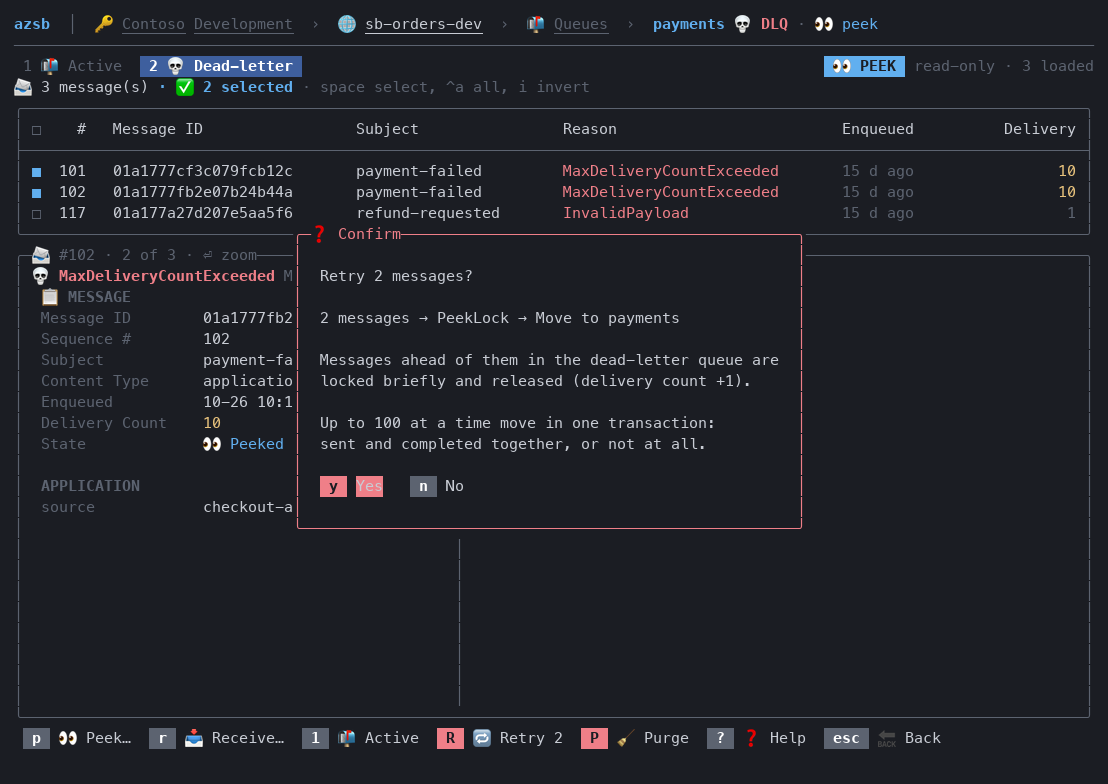
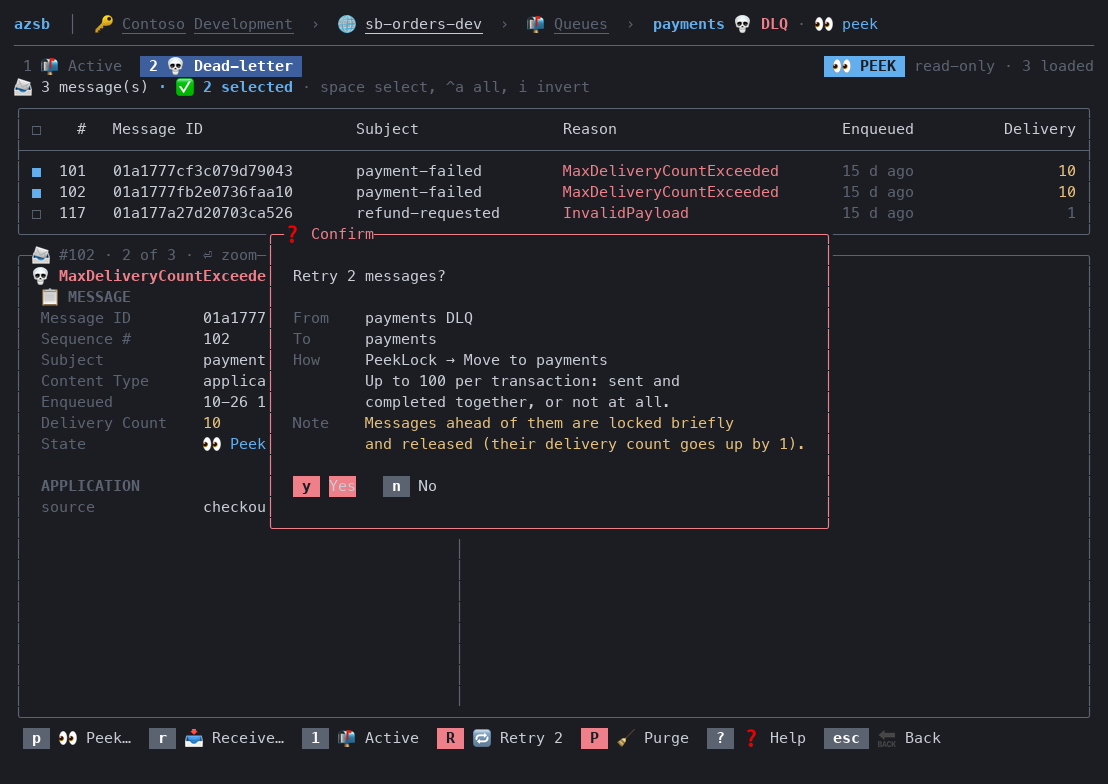
Show From / To / How / Note in the retry confirmation (#178)
![Retry
confirm](https://github.com/zidad/azure-servicebus-console/blob/redesign/retry-confirm-grid/docs/screenshots/retry-confirm.png?raw=true)

- DialogFields: label grid for dialogs, notes in warning color
- AsyncCommand ConfirmFields passes the grid to ConfirmModal
- RetryText.Fields: dead-letter source, send target, steps with
transaction or at-least-once, notes
- Retry and requeue confirms in browser and detail page use it
- Part of #133

diff --git a/src/ServiceBusConsole/Messaging/RetryText.cs b/src/ServiceBusConsole/Messaging/RetryText.cs
@@ -8,31 +8,41 @@ public static class RetryText
 
     public static string Label(bool isDlq) => isDlq ? MessagingStrings.RetryText_Retry : MessagingStrings.RetryText_Requeue;
 
+    public static string Question(MessageSource source, string what) =>
+        source.IsDlq ? MessagingStrings.FormatRetryText_RetryQuestion(what) : MessagingStrings.FormatRetryText_RequeueQuestion(what);
+
     /// <summary>
-    /// Short lines, so the confirm dialog stays narrow: question, the steps as a flow, notes. <paramref name="transactional"/>:
-    /// the namespace moves held messages in transactions (received-and-deleted ones have no originals left to complete).
+    /// From / To / How / Note, in short lines so the confirm dialog stays narrow; How starts with the progress steps.
+    /// <paramref name="transactional"/>: the namespace moves held messages in transactions (received-and-deleted ones
+    /// have no originals left to complete).
     /// </summary>
-    public static string Confirm(BrowseMode mode, MessageSource source, string what, bool transactional)
+    public static IReadOnlyList<DialogField> Fields(BrowseMode mode, MessageSource source, bool transactional)
     {
         var requeue = MessagingStrings.FormatRetryText_RequeueTo(source.SendTarget);
         string[] retry = transactional ? [MessagingStrings.FormatRetryText_MoveTo(source.SendTarget)] : [requeue, MessagingStrings.RetryText_MarkComplete];
         string[] steps = mode switch
         {
-            BrowseMode.Peek => [what, Strings.PeekLock, .. retry],
-            BrowseMode.Locked => [what, .. retry],
-            _ => [what, requeue],
+            BrowseMode.Peek => [Strings.PeekLock, .. retry],
+            BrowseMode.Locked => retry,
+            _ => [requeue],
         };
+        string?[] how =
+        [
+            string.Join(" → ", steps),
+            mode == BrowseMode.Received ? null : transactional ? MessagingStrings.RetryText_TransactionNote : MessagingStrings.RetryText_AtLeastOnceNote,
+        ];
         string?[] notes =
         [
             mode == BrowseMode.Peek ? MessagingStrings.RetryText_PeekNote : null,
             mode == BrowseMode.Received ? MessagingStrings.RetryText_ReceivedNote : null,
-            transactional && mode != BrowseMode.Received ? MessagingStrings.RetryText_TransactionNote : null,
             source is MessageSource.Subscription ? MessagingStrings.RetryText_SubscriptionNote : null,
         ];
-        var question = source.IsDlq ? MessagingStrings.FormatRetryText_RetryQuestion(what) : MessagingStrings.FormatRetryText_RequeueQuestion(what);
-        return string.Join('\n', [
-            question, "", string.Join(" → ", steps),
-            .. notes.OfType<string>().SelectMany(note => new[] { "", note }),
-        ]);
+        return
+        [
+            new(MessagingStrings.RetryText_From, source.DisplayName),
+            new(MessagingStrings.RetryText_To, source.SendTarget),
+            new(MessagingStrings.RetryText_How, string.Join('\n', how.OfType<string>())),
+            .. notes.OfType<string>().Select((note, i) => new DialogField(i == 0 ? MessagingStrings.RetryText_Note : "", note, Warning: true)),
+        ];
     }
 }

diff --git a/tests/ServiceBusConsole.Tests/RetryTextTests.cs b/tests/ServiceBusConsole.Tests/RetryTextTests.cs
@@ -1,0 +1,41 @@
+namespace ServiceBusConsole.Tests;
+
+public sealed class RetryTextTests
+{
+    [Test]
+    public void Fields_PeekedWithTransactions_MoveFromTheDeadLetterQueueInTransactions()
+    {
+        var fields = RetryText.Fields(BrowseMode.Peek, new MessageSource.Queue("orders", IsDlq: true), transactional: true);
+
+        fields.Select(f => f.Label).ShouldBe(["From", "To", "How", "Note"]);
+        fields[0].Value.ShouldBe("orders DLQ");
+        fields[1].Value.ShouldBe("orders");
+        fields[2].Value.ShouldStartWith("PeekLock → Move to orders\nUp to 100 per transaction");
+        fields[3].Value.ShouldStartWith("Messages ahead of them are locked briefly");
+        fields[3].Warning.ShouldBeTrue();
+    }
+
+    [Test]
+    public void Fields_LockedWithoutTransactions_SendThenComplete()
+    {
+        var fields = RetryText.Fields(BrowseMode.Locked, new MessageSource.Queue("orders", IsDlq: true), transactional: false);
+
+        fields.Select(f => f.Label).ShouldBe(["From", "To", "How"]);
+        fields[2].Value.ShouldStartWith("Requeue to orders → Mark complete\nSent, then completed: at least once.");
+    }
+
+    [Test]
+    public void Fields_ReceivedFromASubscription_RequeueToTheTopic()
+    {
+        var fields = RetryText.Fields(BrowseMode.Received, new MessageSource.Subscription("events", "audit"), transactional: true);
+
+        fields.Select(f => (f.Label, f.Value)).ShouldBe(
+        [
+            ("From", "events/audit"),
+            ("To", "events"),
+            ("How", "Requeue to events"),
+            ("Note", "Receive-and-delete already removed the originals."),
+            ("", "Every subscription of the topic gets a copy."),
+        ]);
+    }
+}

diff --git a/tests/ServiceBusConsole.Tests/MessageBrowserTests.cs b/tests/ServiceBusConsole.Tests/MessageBrowserTests.cs
@@ -123,7 +123,9 @@ public sealed class MessageBrowserTests
         terminal.CurrentFrame.ContainsText("R  🔁 Retry").ShouldBeTrue(terminal.CurrentFrame.ScreenText);
 
         await terminal.SendKeyAsync(ConsoleKey.F10, '\0', cancellationToken: Ct);
-        await terminal.WaitForTextAsync("2 messages → PeekLock → Requeue to orders → Mark complete", AppHarness.Timeout, Ct);
+        var confirm = await terminal.WaitForTextAsync("PeekLock → Requeue to orders → Mark complete", AppHarness.Timeout, Ct);
+        confirm.ContainsText("From    orders DLQ").ShouldBeTrue(confirm.ScreenText);
+        confirm.ContainsText("Sent, then completed: at least once.").ShouldBeTrue(confirm.ScreenText);
         await terminal.SendKeyAsync(ConsoleKey.Y, 'y', cancellationToken: Ct);
 
         var frame = await terminal.WaitUntilAsync(f => !f.ContainsText("first") && !f.ContainsText("third") && f.ContainsText("second"), AppHarness.Timeout, cancellationToken: Ct);
@@ -140,8 +142,8 @@ public sealed class MessageBrowserTests
         await using var _ = terminal;
 
         await terminal.SendKeyAsync(ConsoleKey.F10, '\0', cancellationToken: Ct);
-        var frame = await terminal.WaitForTextAsync("2 messages → PeekLock → Move to orders", AppHarness.Timeout, Ct);
-        frame.ContainsText("move in one transaction").ShouldBeTrue(frame.ScreenText);
+        var frame = await terminal.WaitForTextAsync("PeekLock → Move to orders", AppHarness.Timeout, Ct);
+        frame.ContainsText("Up to 100 per transaction").ShouldBeTrue(frame.ScreenText);
         frame.ContainsText("Mark complete").ShouldBeFalse(frame.ScreenText);
         await terminal.SendKeyAsync(ConsoleKey.Y, 'y', cancellationToken: Ct);
 

diff --git a/tests/ServiceBusConsole.Tests/Screenshots.cs b/tests/ServiceBusConsole.Tests/Screenshots.cs
@@ -84,7 +84,7 @@ public sealed class Screenshots
         await Save(terminal, dir, "message-browser");
 
         await Key(terminal, ConsoleKey.F10);
-        await terminal.WaitForTextAsync("move in one transaction", AppHarness.Timeout, Ct);
+        await terminal.WaitForTextAsync("per transaction", AppHarness.Timeout, Ct);
         await Save(terminal, dir, "retry-confirm");
         await Key(terminal, ConsoleKey.N, 'n');
         await terminal.WaitUntilAsync(f => !f.ContainsText("move in one transaction"), AppHarness.Timeout, cancellationToken: Ct);
@@ -100,7 +100,7 @@ public sealed class Screenshots
         // Retry the two selected messages, holding the transaction so the progress dialog can be captured.
         app.Services.Transactions.Hold = new TaskCompletionSource();
         await Key(terminal, ConsoleKey.F10);
-        await terminal.WaitForTextAsync("move in one transaction", AppHarness.Timeout, Ct);
+        await terminal.WaitForTextAsync("per transaction", AppHarness.Timeout, Ct);
         await Key(terminal, ConsoleKey.Y, 'y');
         await terminal.WaitForTextAsync("Retrying 2 messages", AppHarness.Timeout, Ct);
         await Save(terminal, dir, "retry-progress");

diff --git a/src/ServiceBusConsole/UI/DialogField.cs b/src/ServiceBusConsole/UI/DialogField.cs
@@ -1,0 +1,4 @@
+namespace ServiceBusConsole.UI;
+
+/// <summary>A row of a dialog's label grid (From / To / How / Note); <see cref="Value"/> may span lines.</summary>
+public readonly record struct DialogField(string Label, string Value, bool Warning = false);
